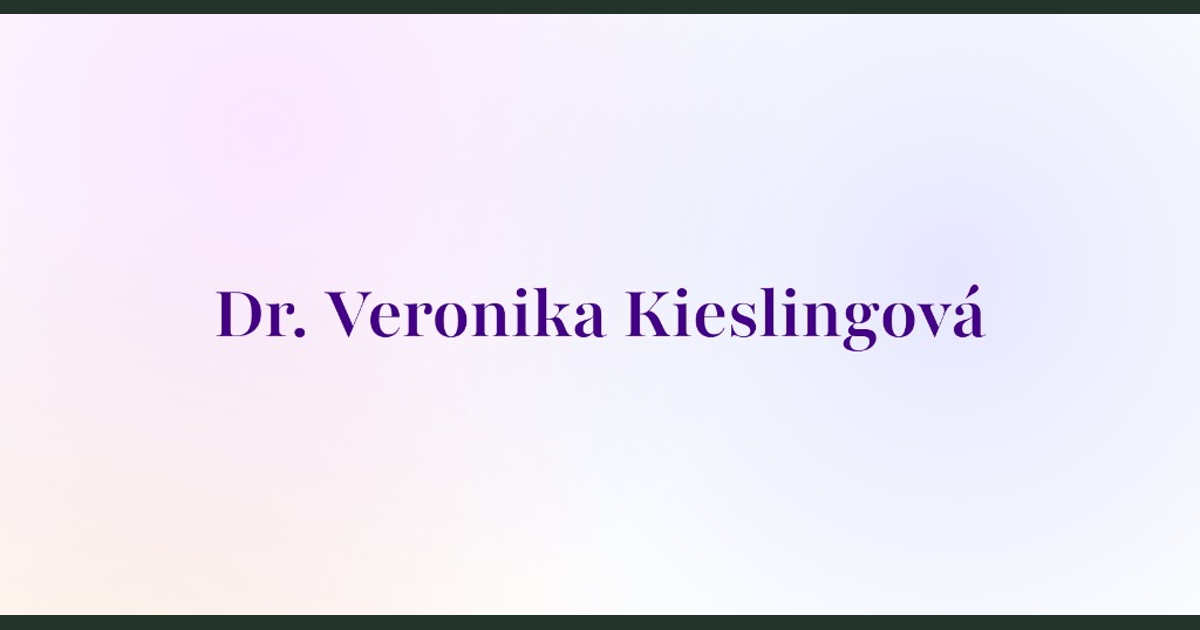
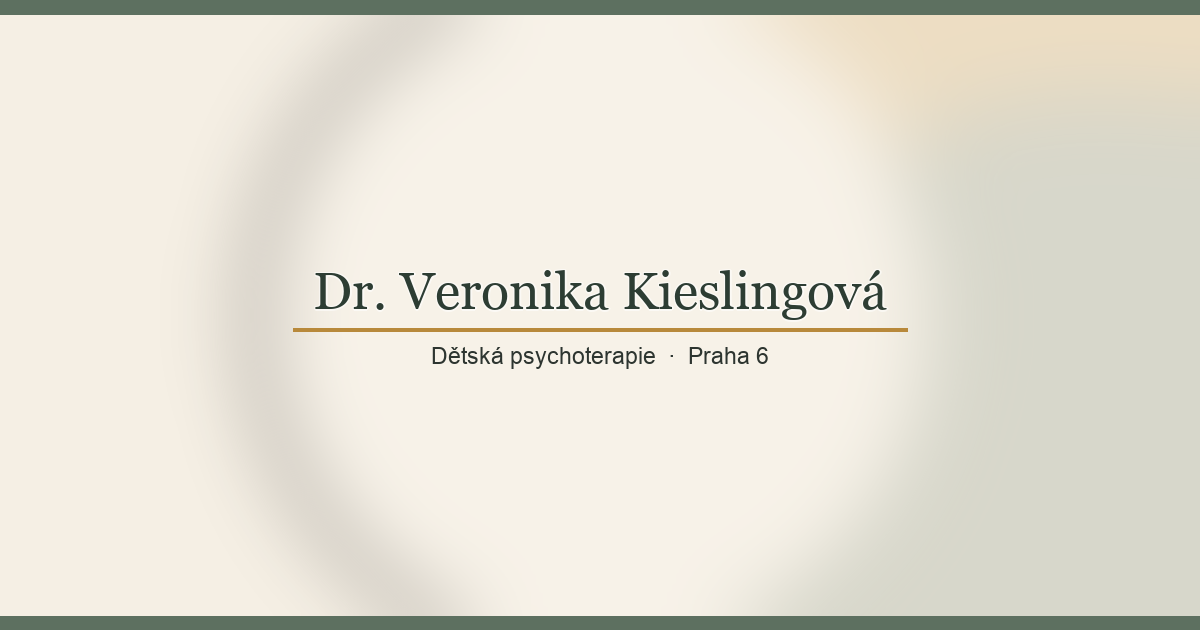
assets: regenerate OG preview images for sage palette
- Warm cream mesh, sage bars, mustard accent line
- Add scripts/generate_og_images.py for future updates
- Bump og/twitter image cache bust query (?v=2)

Made-with: Cursor

diff --git a/index.html b/index.html
@@ -57,7 +57,7 @@
     />
     <meta
       property="og:image"
-      content="https://detskapsychoterapie.cz/og-share-1200.png?v=1"
+      content="https://detskapsychoterapie.cz/og-share-1200.png?v=2"
     />
     <meta property="og:image:width" content="1200" />
     <meta property="og:image:height" content="630" />
@@ -76,7 +76,7 @@
     />
     <meta
       name="twitter:image"
-      content="https://detskapsychoterapie.cz/og-share-1200.png?v=1"
+      content="https://detskapsychoterapie.cz/og-share-1200.png?v=2"
     />
   </head>
   <body>

diff --git a/scripts/generate_og_images.py b/scripts/generate_og_images.py
@@ -1,0 +1,114 @@
+#!/usr/bin/env python3
+"""
+Generate OG / social preview PNGs (sage + warm cream + mustard).
+From repo root: python3 scripts/generate_og_images.py
+"""
+
+from __future__ import annotations
+
+import os
+
+from PIL import Image, ImageDraw, ImageFilter, ImageFont
+
+CREAM_100 = (245, 239, 228)
+CREAM_50 = (250, 246, 238)
+MUSTARD_SOFT = (216, 176, 110)
+SAGE_SOFT = (107, 127, 110)
+SAGE_DEEP = (93, 112, 96)
+INK = (45, 53, 48)
+FOREST_900 = (45, 61, 51)
+MUSTARD_ACCENT = (184, 137, 59)
+
+
+def _try_font(path: str, size: int) -> ImageFont.FreeTypeFont | ImageFont.ImageFont:
+    if os.path.isfile(path):
+        try:
+            return ImageFont.truetype(path, size)
+        except OSError:
+            pass
+    return ImageFont.load_default()
+
+
+def render_og(w: int, h: int) -> Image.Image:
+    bar = max(10, int(round(h * 0.022)))
+    img = Image.new("RGB", (w, h), CREAM_100)
+    layer = Image.new("RGBA", (w, h), (0, 0, 0, 0))
+    ld = ImageDraw.Draw(layer)
+
+    r1 = int(max(w, h) * 0.42)
+    cx1, cy1 = int(w * 0.88), int(h * 0.1)
+    ld.ellipse([cx1 - r1, cy1 - r1, cx1 + r1, cy1 + r1], fill=(*MUSTARD_SOFT, 72))
+
+    r2 = int(max(w, h) * 0.38)
+    cx2, cy2 = int(w * 0.92), int(h * 0.88)
+    ld.ellipse([cx2 - r2, cy2 - r2, cx2 + r2, cy2 + r2], fill=(*SAGE_SOFT, 55))
+
+    r3 = int(min(w, h) * 0.55)
+    cx3, cy3 = w // 2, h // 2
+    ld.ellipse([cx3 - r3, cy3 - r3, cx3 + r3, cy3 + r3], fill=(*CREAM_50, 100))
+
+    blur_r = max(28, int(min(w, h) * 0.065))
+    layer = layer.filter(ImageFilter.GaussianBlur(blur_r))
+    img = Image.alpha_composite(img.convert("RGBA"), layer).convert("RGB")
+    draw = ImageDraw.Draw(img)
+
+    draw.rectangle([0, 0, w, bar], fill=SAGE_DEEP)
+    draw.rectangle([0, h - bar, w, h], fill=SAGE_DEEP)
+
+    scale = min(w / 1200, h / 630)
+    title_size = max(28, int(round(52 * scale)))
+    sub_size = max(14, int(round(23 * scale)))
+
+    georgia = "/System/Library/Fonts/Supplemental/Georgia.ttf"
+    arial = "/System/Library/Fonts/Supplemental/Arial.ttf"
+    title_font = _try_font(georgia, title_size)
+    sub_font = _try_font(arial, sub_size)
+
+    title = "Dr. Veronika Kieslingová"
+    subtitle = "Dětská psychoterapie  ·  Praha 6"
+
+    tw, th = draw.textbbox((0, 0), title, font=title_font)[2:]
+    sw, sh = draw.textbbox((0, 0), subtitle, font=sub_font)[2:]
+
+    gap_small = max(6, int(round(8 * scale)))
+    gap_mid = max(8, int(round(12 * scale)))
+    line_h = max(2, int(round(3 * scale)))
+    accent_w = min(max(tw, sw) + int(40 * scale), w - 80)
+
+    block_h = th + gap_small + line_h + gap_mid + sh
+    y_title = (h - block_h) // 2
+    tx = (w - tw) // 2
+    sx = (w - sw) // 2
+
+    halo = Image.new("RGBA", (w, h), (0, 0, 0, 0))
+    hd = ImageDraw.Draw(halo)
+    for dx, dy in ((1, 1), (-1, -1), (1, -1), (-1, 1), (0, 2), (2, 0)):
+        hd.text((tx + dx, y_title + dy), title, font=title_font, fill=(255, 255, 255, 140))
+    img = Image.alpha_composite(img.convert("RGBA"), halo).convert("RGB")
+    draw = ImageDraw.Draw(img)
+
+    draw.text((tx, y_title), title, font=title_font, fill=FOREST_900)
+
+    line_y = y_title + th + gap_small
+    lx0 = (w - accent_w) // 2
+    draw.rectangle([lx0, line_y, lx0 + accent_w, line_y + line_h], fill=MUSTARD_ACCENT)
+
+    sub_y = line_y + line_h + gap_mid
+    draw.text((sx, sub_y), subtitle, font=sub_font, fill=INK)
+
+    return img
+
+
+def main() -> None:
+    root = os.path.dirname(os.path.dirname(os.path.abspath(__file__)))
+    out1200 = os.path.join(root, "og-share-1200.png")
+    out1024 = os.path.join(root, "og-share.png")
+
+    render_og(1200, 630).save(out1200, "PNG", optimize=True)
+    render_og(1024, 513).save(out1024, "PNG", optimize=True)
+    print("Wrote", out1200)
+    print("Wrote", out1024)
+
+
+if __name__ == "__main__":
+    main()
